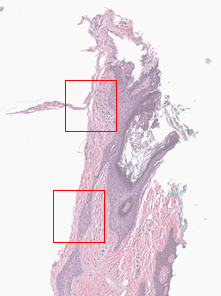
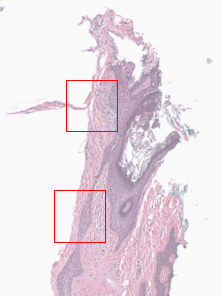
use scaled image rather than thumbnail to locate tiles

diff --git a/src/histolab/tiler.py b/src/histolab/tiler.py
@@ -68,7 +68,11 @@ class Tiler(Protocol):
         raise NotImplementedError
 
     def locate_tiles(
-        self, slide: Slide, alpha: int = 128, outline: str = "red"
+        self,
+        slide: Slide,
+        scale_factor: int = 32,
+        alpha: int = 128,
+        outline: str = "red",
     ) -> Image:
         """Place tiles references on the slide thumbnail image
 
@@ -76,6 +80,8 @@ class Tiler(Protocol):
         ----------
         slide : Slide
             Slide reference where placing the tiles
+        scale_factor: int
+            Scaling factor for the returned image. Default is 32.
         alpha: int
             The alpha level to be applied to the slide thumbnail, default to 128.
         outline: str
@@ -86,10 +92,10 @@ class Tiler(Protocol):
         Image
             PIL Image of the slide thumbnail with the extracted tiles outlined
         """
-        if not os.path.exists(slide.thumbnail_path):
-            slide.save_thumbnail()
+        if not os.path.exists(slide.scaled_image_path(scale_factor)):
+            slide.save_scaled_image(scale_factor)
         tiles_coords = (tc[1] for tc in self._tiles_generator(slide))
-        img = Image.open(slide.thumbnail_path)
+        img = Image.open(slide.scaled_image_path(scale_factor))
         img.putalpha(alpha)
         draw = ImageDraw.Draw(img)
         for coords in tiles_coords:

diff --git a/tests/integration/test_tiler.py b/tests/integration/test_tiler.py
@@ -23,7 +23,7 @@ class DescribeRandomTiler:
             "tiles-location-images/cmu-1-small-region-tiles-location-random",
             type_="png",
         )
-        tiles_location_img = random_tiles_extractor.locate_tiles(slide)
+        tiles_location_img = random_tiles_extractor.locate_tiles(slide, scale_factor=10)
 
         np.testing.assert_array_almost_equal(
             np.asarray(tiles_location_img), expectation
@@ -41,7 +41,7 @@ class DescribeGridTiler:
         expectation = load_expectation(
             "tiles-location-images/cmu-1-small-region-tiles-location-grid", type_="png"
         )
-        tiles_location_img = grid_tiles_extractor.locate_tiles(slide)
+        tiles_location_img = grid_tiles_extractor.locate_tiles(slide, scale_factor=10)
 
         np.testing.assert_array_almost_equal(
             np.asarray(tiles_location_img), expectation
@@ -62,7 +62,9 @@ class DescribeScoreTiler:
             "tiles-location-images/cmu-1-small-region-tiles-location-scored",
             type_="png",
         )
-        scored_location_img = scored_tiles_extractor.locate_tiles(slide)
+        scored_location_img = scored_tiles_extractor.locate_tiles(
+            slide, scale_factor=10
+        )
 
         np.testing.assert_array_almost_equal(
             np.asarray(scored_location_img), expectation
